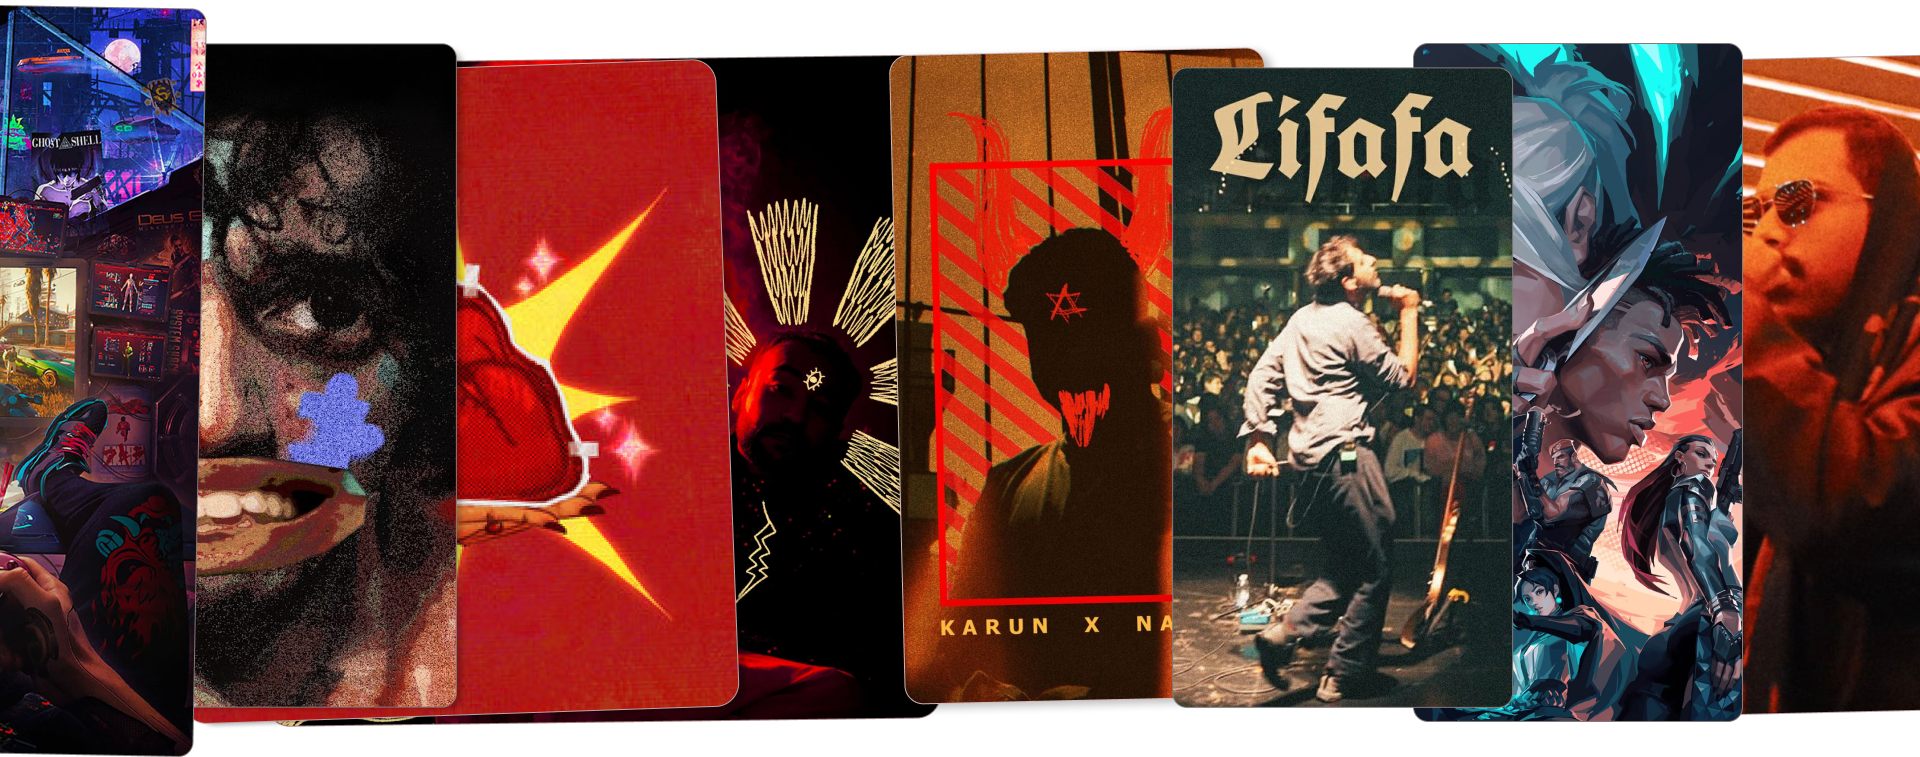
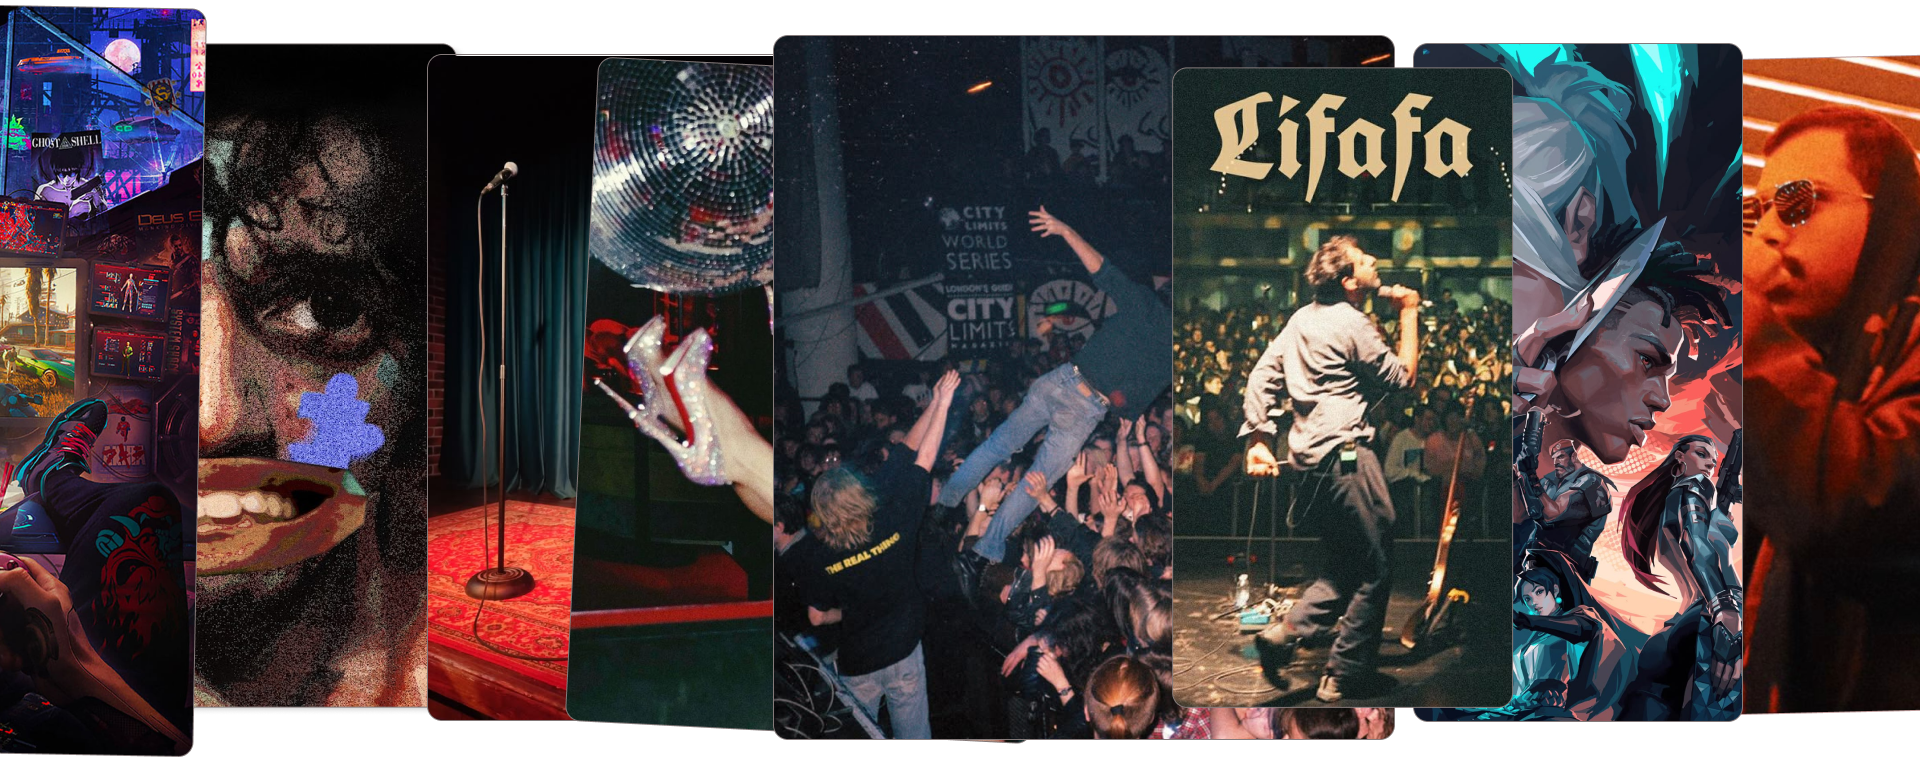
changes to navbar and past events

diff --git a/Client/src/components/EventCarousel.tsx b/Client/src/components/EventCarousel.tsx
@@ -26,166 +26,99 @@ interface EventCardProps {
 const EventCard = memo(function EventCard({ event, index }: EventCardProps) {
   const [isHovered, setIsHovered] = useState(false);
 
-	return (
-		<motion.div
-			custom={index}
-			initial="hidden"
-			animate="visible"
-			variants={{
-				hidden: { opacity: 0, y: 20 },
-				visible: (i: number) => ({
-					opacity: 1,
-					y: 0,
-					transition: {
-						delay: i * 0.1,
-						duration: 0.5,
-						ease: "easeOut",
-					},
-				}),
-			}}
-			className="h-full"
-		>
-			<Link
-				href={`/event/${event._id}`}
-				scroll={false}
-			>
-				<CardContainer
-					className="w-full h-full py-0 rounded-2xl border border-[#DCB6FF] hover:border-[#703CA0]"
-					containerClassName="py-0"
-					onMouseEnter={() => setIsHovered(true)}
-					onMouseLeave={() => setIsHovered(false)}
-				>
-					<CardBody
-						className={cn(
-							"h-full w-full rounded-2xl overflow-hidden border border-gray-800 bg-gray-900/80",
-							isHovered ? "shadow-md shadow-purple-500/20" : "",
-						)}
-					>
-						<div className="relative w-full h-full flex flex-col">
-							<CardItem
-								translateZ={40}
-								className="relative w-full aspect-square overflow-hidden"
-							>
-								<Image
-									src={event.photographs?.[0] || "/images/placeholder.jpg"} 
-  									alt={event.name}
-									fill
-									sizes="(max-width: 640px) 100vw, (max-width: 768px) 50vw, (max-width: 1024px) 33vw, 25vw"
-									priority={index < 4}
-									loading={index < 4 ? "eager" : "lazy"}
-									className="object-cover object-center transition-transform duration-500"
-								/>
-								<div className="absolute inset-0 bg-gradient-to-t from-black/70 to-transparent opacity-70" />
+  return (
+    <motion.div
+      custom={index}
+      initial="hidden"
+      animate="visible"
+      variants={{
+        hidden: { opacity: 0, y: 20 },
+        visible: (i: number) => ({
+          opacity: 1,
+          y: 0,
+          transition: {
+            delay: i * 0.1,
+            duration: 0.5,
+            ease: "easeOut",
+          },
+        }),
+      }}
+      className="h-full min-w-[260px] sm:min-w-[280px] md:min-w-[300px] lg:min-w-[280px] xl:min-w-[260px]"
+    >
+      <Link href={`/event/${event._id}`} scroll={false}>
+        <CardContainer
+          className="w-full h-full py-0 rounded-2xl border border-[#DCB6FF] hover:border-[#703CA0]"
+          containerClassName="py-0"
+          onMouseEnter={() => setIsHovered(true)}
+          onMouseLeave={() => setIsHovered(false)}
+        >
+          <CardBody
+            className={cn(
+              "h-full w-full rounded-2xl overflow-hidden border border-gray-800 bg-gray-900/80",
+              isHovered ? "shadow-md shadow-purple-500/20" : "",
+            )}
+          >
+            <div className="relative w-full h-full flex flex-col">
+              <CardItem
+                translateZ={40}
+                className="relative w-full aspect-square overflow-hidden"
+              >
+                <Image
+                  src={event.photographs?.[0] || "/images/placeholder.jpg"}
+                  alt={event.name}
+                  fill
+                  sizes="(max-width: 640px) 100vw, (max-width: 768px) 50vw, (max-width: 1024px) 33vw, 25vw"
+                  priority={index < 4}
+                  loading={index < 4 ? "eager" : "lazy"}
+                  className="object-cover object-center transition-transform duration-500"
+                />
+                <div className="absolute inset-0 bg-gradient-to-t from-black/70 to-transparent opacity-70" />
+              </CardItem>
 
-								{/* <CardItem
-								translateZ="60"
-								className="absolute bottom-0 left-0 right-0 p-3"
-							>
-								<div className="text-sm text-purple-300 font-medium">
-									{new Date(event.endRegistrationDate).toLocaleDateString(
-										"en-IN",
-										{
-											day: "numeric",
-											month: "short",
-											year: "numeric",
-										},
-									)}
-									{" • "}
-									{event.startTime}
-								</div>
-							</CardItem> */}
-
-								{/* <CardItem
-								translateZ="60"
-								className={cn(
-									"absolute top-3 right-3 px-2 py-1 text-xs font-medium rounded-md",
-									event.isLive
-										? "bg-green-500/80 text-white"
-										: "bg-red-500/80 text-white",
-								)}
-							>
-								{event.isLive ? "Live" : "Ended"}
-							</CardItem> */}
-							</CardItem>
-
-							<CardItem
-								translateZ={30}
-								className="p-4 flex flex-col flex-grow"
-							>
-								<h3 className="text-xl font-normal mb-8 line-clamp-2 text-white">
-									{/* Increased font size */}
-									{event.name}
-								</h3>
-								<p className="text-gray-400 mb-1 line-clamp-1 flex gap-2 items-center">
-									{/* Added location Icon */}
-									<div className="h-5 w-5">
-										<Image
-											alt="location"
-											src={locationSvg}
-										></Image>
-									</div>
-									<p className="w-[70vw] sm:w-[35vw] md:w-[20vw] lg:w-[13vw] truncate">
-										{event.location ?? "Location not specified"}
-									</p>
-								</p>
-								<div className="text-sm text-gray-400 mb-6 flex gap-2 items-center truncate">
-									{/* Added Calendar Icon */}
-									<div className="h-5 w-5">
-										<Image
-											alt="calendar"
-											src={calendarSvg}
-										></Image>
-									</div>
-									<div>
-										{new Date(
-											event.endRegistrationDate,
-										).toLocaleDateString("en-IN", {
-											day: "numeric",
-											month: "long",
-											year: "numeric",
-										})}
-									</div>
-									<div>|</div>
-									<div>{event.startTime}</div>
-								</div>
-								<div className="mt-auto flex gap-4 mb-2">
-									{/* <CardItem translateZ="50">
-									<Link
-										href={/event/${event._id}}
-										scroll={false}
-										onClick={(e) => {
-											e.preventDefault();
-											// Store the origin page in localStorage
-											localStorage.setItem(
-												"eventOrigin",
-												window.location.pathname,
-											);
-											// Navigate to the event detail page
-											window.location.href = `/event/${event._id}`;
-										}}
-									>
-										<Button
-											variant="outline"
-											className="w-full hover:bg-purple-600 hover:text-white transition-colors duration-300 border-purple-500/50"
-										>
-											More info
-										</Button>
-									</Link>
-								</CardItem> */}
-									<div className="text-gray-400 border border-[#DCB6FF] rounded-3xl pt-1 pb-1 pl-3 pr-3">
-										₹ {event.ticketPrice ?? "--"}
-									</div>
-									<div className="text-gray-400 border border-[#DCB6FF] rounded-3xl pt-1 pb-1 pl-3 pr-3">
-										{event.category ?? "--"}
-									</div>
-								</div>
-							</CardItem>
-						</div>
-					</CardBody>
-				</CardContainer>
-			</Link>
-		</motion.div>
-	);
+              <CardItem translateZ={30} className="p-4 flex flex-col flex-grow">
+                <h3 className="text-xl font-normal mb-8 line-clamp-2 text-white">
+                  {event.name}
+                </h3>
+                <p className="text-gray-400 mb-1 line-clamp-1 flex gap-2 items-center">
+                  <div className="h-5 w-5">
+                    <Image alt="location" src={locationSvg} />
+                  </div>
+                  <p className="w-[70vw] sm:w-[35vw] md:w-[20vw] lg:w-[13vw] truncate">
+                    {event.location ?? "Location not specified"}
+                  </p>
+                </p>
+                <div className="text-sm text-gray-400 mb-6 flex gap-2 items-center truncate">
+                  <div className="h-5 w-5">
+                    <Image alt="calendar" src={calendarSvg} />
+                  </div>
+                  <div>
+                    {new Date(event.endRegistrationDate).toLocaleDateString(
+                      "en-IN",
+                      {
+                        day: "numeric",
+                        month: "long",
+                        year: "numeric",
+                      },
+                    )}
+                  </div>
+                  <div>|</div>
+                  <div>{event.startTime}</div>
+                </div>
+                <div className="mt-auto flex gap-4 mb-2">
+                  <div className="text-gray-400 border border-[#DCB6FF] rounded-3xl pt-1 pb-1 px-3">
+                    ₹ {event.ticketPrice ?? "--"}
+                  </div>
+                  <div className="text-gray-400 border border-[#DCB6FF] rounded-3xl pt-1 pb-1 px-3">
+                    {event.category ?? "--"}
+                  </div>
+                </div>
+              </CardItem>
+            </div>
+          </CardBody>
+        </CardContainer>
+      </Link>
+    </motion.div>
+  );
 });
 
 EventCard.displayName = "EventCard";
@@ -202,53 +135,44 @@ const EventCarousel: React.FC<EventCarouselProps> = ({
     return dateA - dateB;
   });
 
-	return (
-		<div className="mb-16 px-4 sm:px-6 lg:px-8">
-		<div className="w-full bg-transparent text-white py-6">
-			<div className="flex justify-between items-center mb-6">
-			<motion.div
-				initial={{ opacity: 0, x: -30 }}
-				animate={{ opacity: 1, x: 0 }}
-				transition={{ duration: 0.5 }}
-				className="flex items-center"
-			>
-				<div className="w-1 h-6 bg-purple-500 mr-3 rounded-full"></div>
-				<h2 className="text-xl sm:text-2xl font-bold bg-clip-text text-transparent bg-gradient-to-r from-purple-400 to-pink-300">
-				{category ?? "Upcoming Events"}
-				</h2>
-			</motion.div>
-			</div>
+  return (
+    <div className="mb-16 px-4 sm:px-6 lg:px-8">
+      <div className="w-full bg-transparent text-white py-6">
+        <div className="flex justify-between items-center mb-6">
+          <motion.div
+            initial={{ opacity: 0, x: -30 }}
+            animate={{ opacity: 1, x: 0 }}
+            transition={{ duration: 0.5 }}
+            className="flex items-center"
+          >
+            <div className="w-1 h-6 bg-purple-500 mr-3 rounded-full"></div>
+            <h2 className="text-xl sm:text-2xl font-bold bg-clip-text text-transparent bg-gradient-to-r from-purple-400 to-pink-300">
+              {category ?? "Upcoming Events"}
+            </h2>
+          </motion.div>
+        </div>
 
-				{sortedEvents.length > 0 ? (
-					<div className="grid grid-cols-1 sm:grid-cols-3 lg:grid-cols-3 xl:grid-cols-5 gap-6">
-						{sortedEvents.map((event, index) => (
-							<motion.div
-								key={event._id}
-								initial={{ opacity: 0, y: 20 }}
-								animate={{ opacity: 1, y: 0 }}
-								exit={{ opacity: 0, y: -20 }}
-								transition={{ duration: 0.3 }}
-								className="h-full max-sm:w-10/12 m-auto"
-							>
-								<EventCard
-									event={event}
-									index={index}
-								/>
-							</motion.div>
-						))}
-					</div>
-				) : (
-					<div className="pl-2 md:pl-4 basis-full">
-						<div className="flex justify-center items-center h-40 bg-purple-900/25 rounded-lg">
-							<p className="text-gray-400">
-								No Upcoming Events Currently
-							</p>
-						</div>
-					</div>
-				)}
-			</div>
-		</div>
-	);
-	};
+        {sortedEvents.length > 0 ? (
+          <div
+            className={cn(
+              "flex gap-6 overflow-x-auto pb-4 scrollbar-hide",
+              sortedEvents.length > 5 ? "pr-4" : ""
+            )}
+          >
+            {sortedEvents.map((event, index) => (
+              <EventCard key={event._id || index} event={event} index={index} />
+            ))}
+          </div>
+        ) : (
+          <div className="pl-2 md:pl-4 basis-full">
+            <div className="flex justify-center items-center h-40 bg-purple-900/25 rounded-lg">
+              <p className="text-gray-400">No Upcoming Events Currently</p>
+            </div>
+          </div>
+        )}
+      </div>
+    </div>
+  );
+};
 
 export default memo(EventCarousel);

diff --git a/Client/src/components/Navbar.tsx b/Client/src/components/Navbar.tsx
@@ -486,7 +486,7 @@ const Navbar = () => {
 
 	return (
 		<div className="fixed top-0 w-full z-[1000]">
-			<div className="flex px-2.5 sm:px-5 justify-between bg-black items-center">
+			<div className="flex h-20 px-2.5 sm:px-5 justify-between bg-black items-center">
 				<motion.div
 					initial={{ opacity: 0, x: -20 }}
 					animate={{ opacity: 1, x: 0 }}
